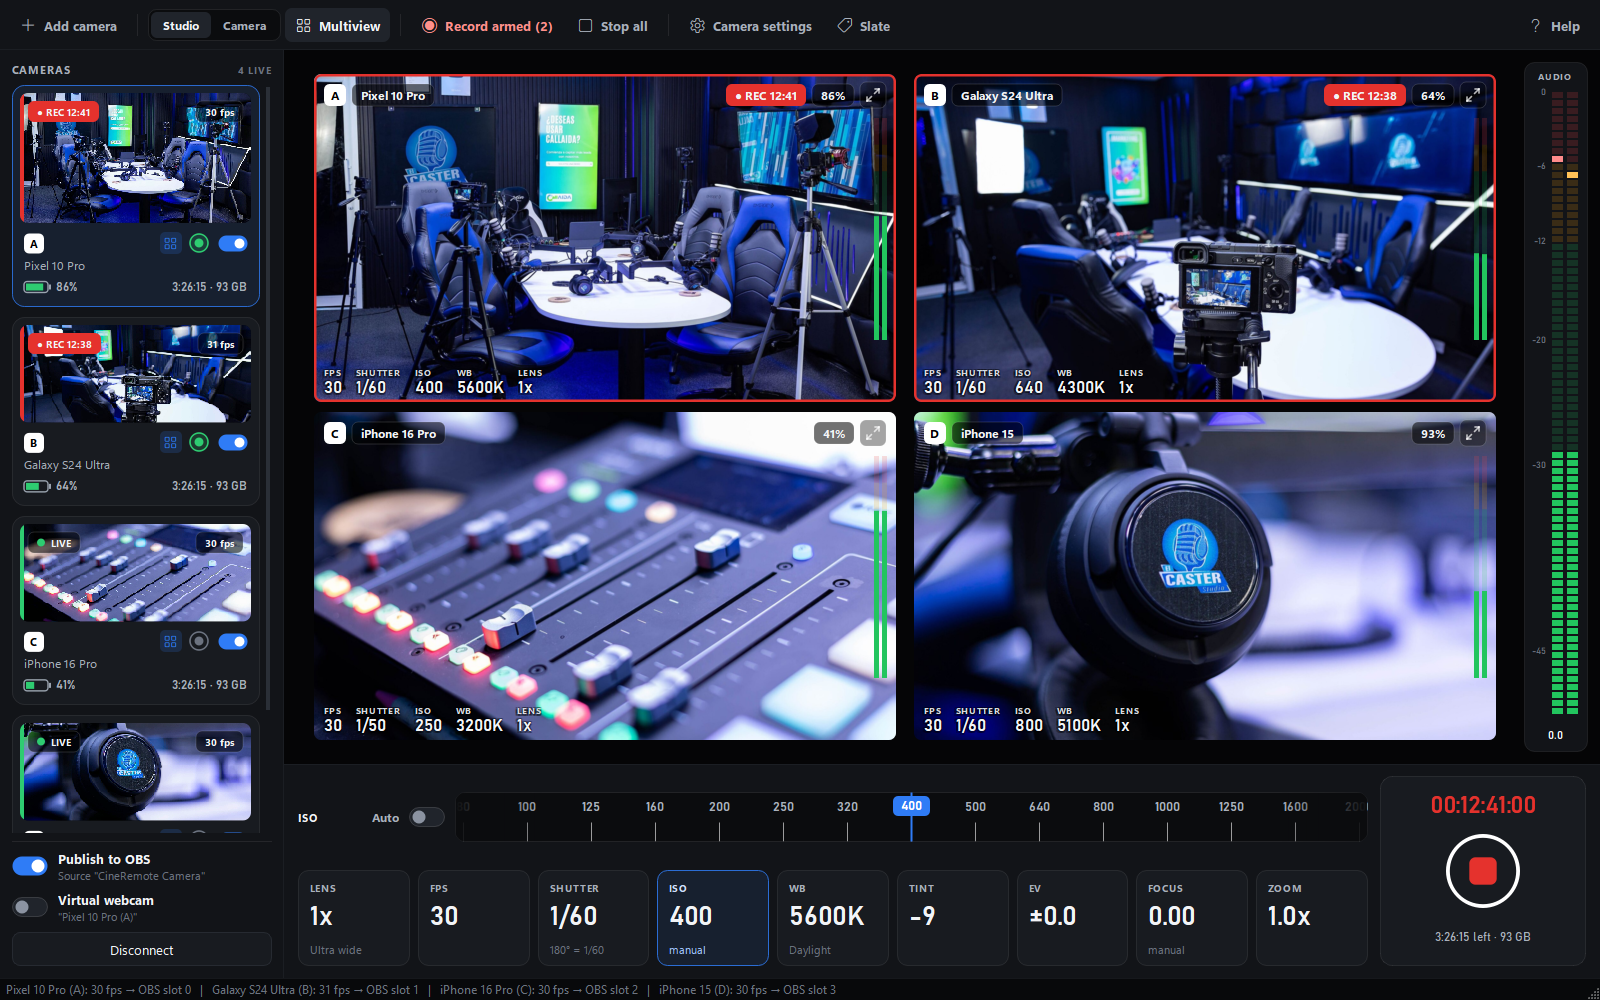
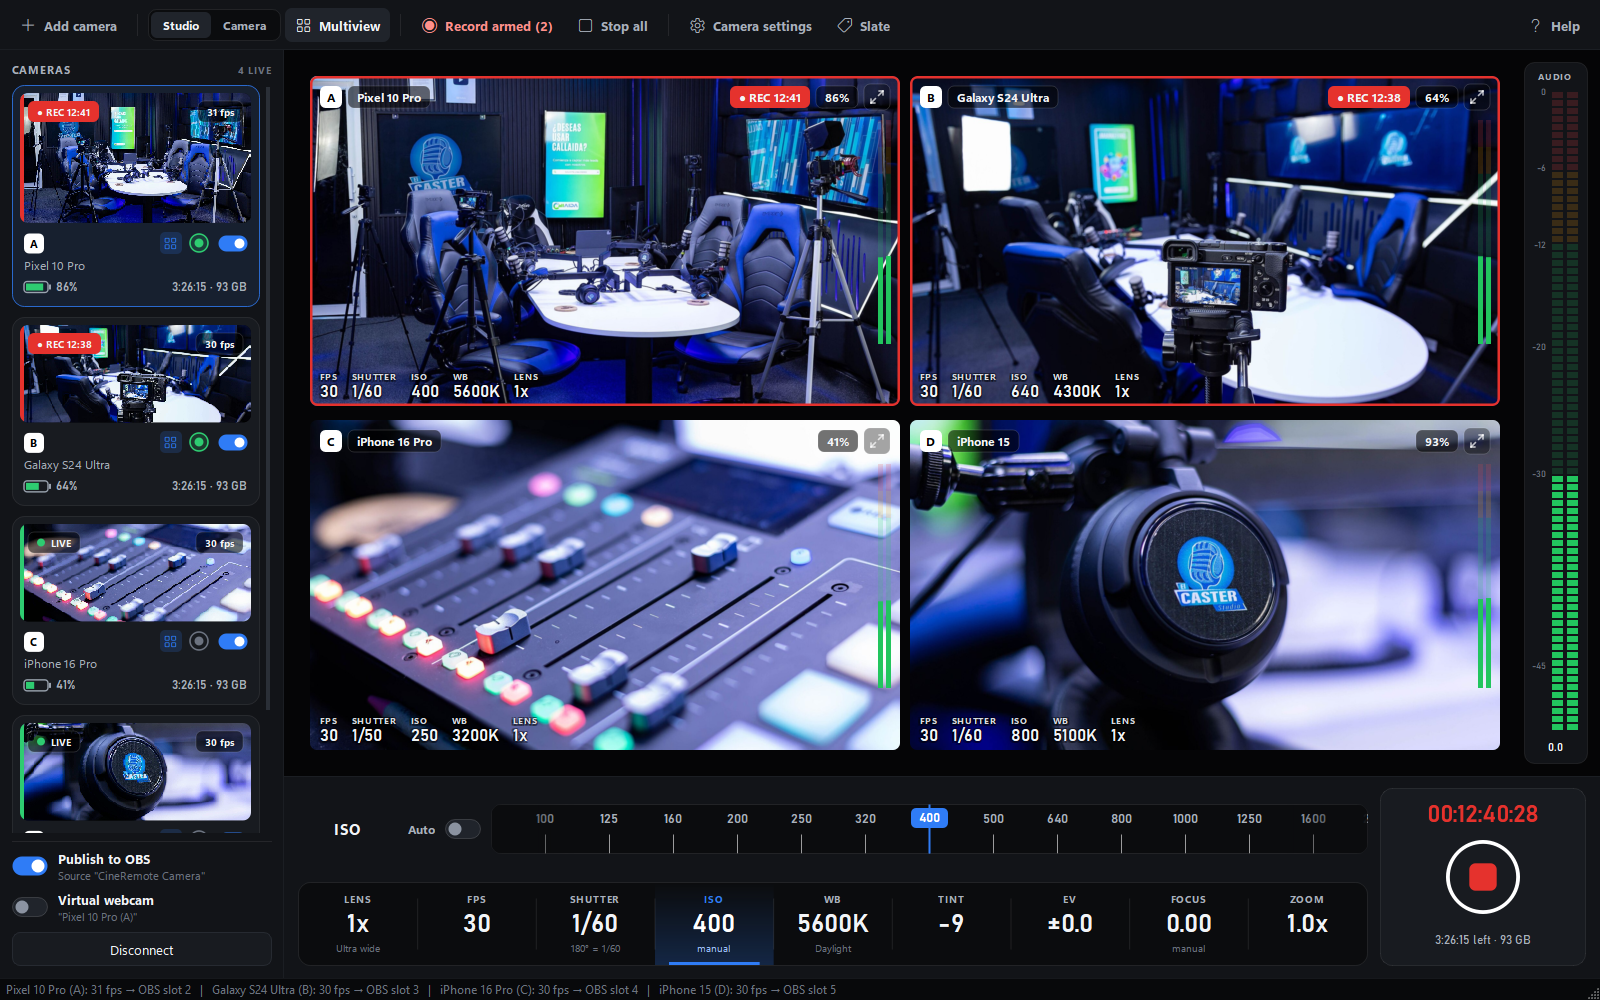
CineRemote 1.1.9: HUD control strip, FPS buttons on Android

diff --git a/cineremote/ui/widgets.py b/cineremote/ui/widgets.py
@@ -201,62 +201,10 @@ class Segmented(QWidget):
             x += w
 
 
-# ---------------------------------------------------------------------------- parameter tile
-class ParamTile(QWidget):
-    """Blackmagic-style readout: small caps label (+ blue A when auto), big value, one context line."""
-    clicked = Signal(str)
-
-    def __init__(self, key, label, big=27, parent=None):
-        super().__init__(parent)
-        self.key, self.label = key, label
-        self.text, self.sub, self.auto = "—", "", None
-        self.selected = False
-        self.big = big
-        self.setCursor(Qt.PointingHandCursor)
-        self.setMinimumSize(92, 96)
-        self.setSizePolicy(QSizePolicy.Expanding, QSizePolicy.Fixed)
-
-    def set_state(self, st):
-        if (st.text, st.sub, st.auto) != (self.text, self.sub, self.auto):
-            self.text, self.sub, self.auto = st.text, st.sub, st.auto
-            self.update()
-
-    def set_selected(self, on):
-        if on != self.selected:
-            self.selected = on
-            self.update()
-
-    def mousePressEvent(self, e):
-        self.clicked.emit(self.key)
-
-    def paintEvent(self, e):
-        p = QPainter(self)
-        p.setRenderHint(QPainter.Antialiasing)
-        r = QRectF(self.rect()).adjusted(0.5, 0.5, -0.5, -0.5)
-        T.rounded(p, r, 10, T.SEL_BG if self.selected else T.BG2,
-                  QPen(QColor(47, 124, 246, 215) if self.selected else T.LINE, 1))
-        f = T.label_font(10.5 if self.width() > 100 else 10)
-        p.setFont(f)
-        p.setPen(QColor("#cfe0ff") if self.selected else T.TEXT2)
-        p.drawText(QRectF(12, 11, r.width() - 20, 14), Qt.AlignLeft | Qt.AlignVCenter, self.label)
-        if self.auto:
-            T.badge_a(p, 12 + T.text_width(f, self.label.upper()) + 6, 10.5, 14)
-        size = self.big
-        p.setFont(T.num_font(size))
-        while size > 16 and T.text_width(p.font(), self.text) > r.width() - 22:
-            size -= 1
-            p.setFont(T.num_font(size))
-        p.setPen(T.TEXT)
-        p.drawText(QRectF(12, 30, r.width() - 18, size + 8), Qt.AlignLeft | Qt.AlignVCenter, self.text)
-        p.setFont(T.ui_font(11))
-        p.setPen(QColor("#9fc3ff") if self.selected else T.TEXT3)
-        p.drawText(QRectF(12, r.height() - 24, r.width() - 18, 16), Qt.AlignLeft | Qt.AlignVCenter, self.sub)
-
-
 # ---------------------------------------------------------------------------- HUD strip
 class HudStrip(QWidget):
     """All parameters in one continuous bar, like the phone's top readout: label, big value, context line
-    per cell, thin dividers; the open one glows with an underline. cell(key) gives a ParamTile-like handle."""
+    per cell, thin dividers; the open one glows with an underline. cell(key) gives a per-parameter handle (set_state / set_selected / setEnabled)."""
     clicked = Signal(str)
 
     class _Cell:

diff --git a/cineremote/__init__.py b/cineremote/__init__.py
@@ -1,2 +1,2 @@
 """CineRemote - remote control and live monitoring for the Blackmagic Camera app."""
-__version__ = "1.1.8"
+__version__ = "1.1.9"

diff --git a/README.md b/README.md
@@ -132,9 +132,9 @@ Do this once on every phone:
 1. Start CineRemote. Phones on the network appear on the left within a few seconds. A phone that doesn't
    show up can be added with **Add camera** and its IP address.
 2. **Double-click a phone** to connect and enter its Remote Camera password (CineRemote can remember it).
-3. Click a setting tile (ISO, shutter, WB…) and then drag, scroll or use ← → on the ruler above it, or click a
+3. Click a setting in the strip at the bottom (ISO, shutter, WB…) and then drag, scroll or use ← → on the ruler above it, or click a
    value on it. Settings with a few fixed values (lens, frame rate) show buttons instead. **Auto** hands that
-   setting back to the phone. Click the tile again to close it and give the picture more room.
+   setting back to the phone. Click it again to close it and give the picture more room.
 4. Click anywhere on the picture to set the focus and exposure point (in the multiview: double-click a camera's
    picture; its corner icon enlarges that camera inside the multiview and takes you back to the grid).
    The grid icon on a camera card chooses whether that camera appears in the multiview.

diff --git a/docs/ARCHITECTURE.md b/docs/ARCHITECTURE.md
@@ -162,7 +162,7 @@ CPU every 5 s (`diag.py`; timestamps ride on aiortc's `JitterFrame` into `frame.
 - **Studio view** (`ui/studio.py`): `CameraCard`s (live thumbnail, tally, battery/media, green record-arm ring,
   multiview toggle, preview switch), monitor (`VideoView`), multiview grid (cameras whose card toggle is on;
   tile click = select, double-click = focus point, corner icon = enlarge in place / back to the grid via `MultiGrid.expanded`), vertical audio meter, control
-  deck (`ParamTile`s + record button; the open tile shows a `ScrubRuler`, or a `ChipStrip` for <= `MAX_BUTTONS` (12) fixed
+  deck (`HudStrip`: all parameters in one bar, + record button; the open parameter shows a `ScrubRuler`, or a `ChipStrip` for <= `MAX_BUTTONS` (12) fixed
   choices; clicking the open tile closes the row and the deck shrinks to `Deck.SHORT`).
 - **Camera view** (`ui/camera_view.py`): the phone app's layout; overlay panels are `CachedPanel`s
   (re-rendered into a pixmap only when content changes, since they sit over 30 fps video).

diff --git a/CHANGELOG.md b/CHANGELOG.md
@@ -1,5 +1,15 @@
 # Changelog
 
+## 1.1.9
+
+- **New control strip.** The camera settings at the bottom of the Studio view are one continuous bar, like
+  the readout on the phone, instead of separate boxes. Click a setting to adjust it; the open one glows with
+  an underline, and clicking it again closes it.
+- **Frame rate is buttons on Android too.** Blackmagic Camera on Android lists every whole frame rate, which
+  turned FPS into a ruler; it now offers the standard rates the phone supports (24, 25, 30, 48, 50, 60...).
+- Lens and frame-rate choices use the same bar style, the name of the open setting is bigger and centred,
+  and the compact record button sits centred with its timecode.
+
 ## 1.1.8
 
 - **Fixed tick marks down the left edge of the picture.** Every camera's picture had small marks along its
